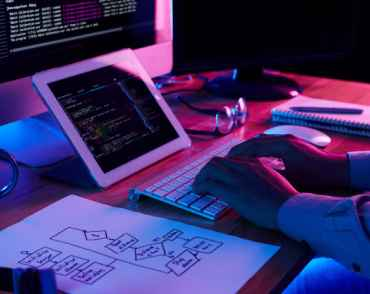
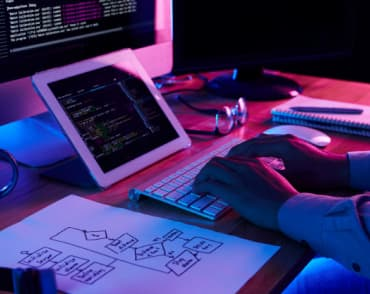
Правки
-оновлено якість картинок;
-виправлено назви в атрибутах alt до мови документу;
-додано атрибути lang для професій працівників;
-відредаговано prettier.

diff --git a/index.html b/index.html
@@ -1,123 +1,111 @@
 <!DOCTYPE html>
 <html lang="ru">
-<head>
-    <meta charset="UTF-8">
-    <meta http-equiv="X-UA-Compatible" content="IE=edge">
-    <meta name="viewport" content="width=device-width, initial-scale=1.0">
-    <title>Document</title>
-</head>
-<body>
-    <!--  Шапка сторінки  -->
-    <header>
-        <nav>
-            <a href="./index.html">
-                WebStudio 
-            </a>
+	<head>
+		<meta charset="UTF-8" />
+		<meta http-equiv="X-UA-Compatible" content="IE=edge" />
+		<meta name="viewport" content="width=device-width, initial-scale=1.0" />
+		<title>Document</title>
+	</head>
+	<body>
+		<!--  Шапка сторінки  -->
+		<header>
+			<nav>
+				<a href="./index.html">WebStudio</a>
 
-            <ul>
-                <li><a href="">Студия</a></li>
-                <li><a href="">Портфолио</a></li>
-                <li><a href="">Контакты</a></li>
-            </ul>
-        </nav>
-        
-        <ul>
-            <li><a href="mailto:info@devstudio.com">info@devstudio.com</a></li>
-            <li><a href="tel:+380961111111">+38 096 111 11 11</a></li>
-        </ul>
-    </header>
+				<ul>
+					<li><a href="">Студия</a></li>
+					<li><a href="">Портфолио</a></li>
+					<li><a href="">Контакты</a></li>
+				</ul>
+			</nav>
 
-    <!--  Унікальний контент сторінки  -->
-    <main>
-        <article>
-            <h1>Эффективные решения для вашего бизнеса</h1>
-            <button type="button">Заказать услугу</button>
-        </article>
+			<ul>
+				<li><a href="mailto:info@devstudio.com">info@devstudio.com</a></li>
+				<li><a href="tel:+380961111111">+38 096 111 11 11</a></li>
+			</ul>
+		</header>
 
-        <section>
-            <h2>Наши особенности</h2>
+		<!--  Унікальний контент сторінки  -->
+		<main>
+			<section>
+				<h1>Эффективные решения для вашего бизнеса</h1>
 
-            <ul>
-                <li>
-                    <h3>Внимание к деталям</h3>
-                    <p>Идейные соображения, а также начало повседневной работы по формированию позиции.</p>
-                </li>
-                <li>
-                    <h3>Пунктуальность</h3>
-                    <p>Задача организации, в особенности же рамки и место обучения кадров влечет за собой.</p>
-                </li>
-                <li>
-                    <h3>Планирование</h3>
-                    <p>Равным образом консультация с широким активом в значительной степени обуславливает.</p>
-                </li>
-                <li>
-                    <h3>Современные технологии</h3>
-                    <p>Значимость этих проблем настолько очевидна, что реализация плановых заданий.</p>
-                </li>
-            </ul>
-        </section>
+				<button type="button">Заказать услугу</button>
+			</section>
 
-        <section>
-            <h2>Чем мы занимаемся</h2>
+			<section>
+				<h2>Наши особенности</h2>
 
-            <ul>
-                <li><img src="./images/job-1.jpg" alt="Верстка сайта" width="370"></li>
-                <li><img src="./images/job-2.jpg" alt="Адаптация сайта под все экраны" width="370"></li>
-                <li><img src="./images/job-3.jpg" alt="Дизайн сайта" width="370"></li>
-            </ul>
-        </section>
+				<ul>
+					<li>
+						<h3>Внимание к деталям</h3>
+						<p>Идейные соображения, а также начало повседневной работы по формированию позиции.</p>
+					</li>
+					<li>
+						<h3>Пунктуальность</h3>
+						<p>Задача организации, в особенности же рамки и место обучения кадров влечет за собой.</p>
+					</li>
+					<li>
+						<h3>Планирование</h3>
+						<p>Равным образом консультация с широким активом в значительной степени обуславливает.</p>
+					</li>
+					<li>
+						<h3>Современные технологии</h3>
+						<p>Значимость этих проблем настолько очевидна, что реализация плановых заданий.</p>
+					</li>
+				</ul>
+			</section>
 
-        <section>
-            <h2>Наша команда</h2>
+			<section>
+				<h2>Чем мы занимаемся</h2>
 
-            <ul>
-                <li>
-                    <img src="./images/pd.jpg" alt="Product Designer"
-                    width="270">
-                    <h3>Игорь Демьяненко</h3>
-                    <p>Product Designer</p>
-                </li>
-                <li>
-                    <img src="./images/fd.jpg" alt="Frontend Developer"
-                    width="270">
-                    <h3>Ольга Репина</h3>
-                    <p>Frontend Developer</p>
-                </li>
-                <li>
-                    <img src="./images/m.jpg" alt="Marketing"
-                    width="270">
-                    <h3>Николай Тарасов</h3>
-                    <p>Marketing</p>
-                </li>
-                <li>
-                    <img src="images/uid.jpg" alt="UI Designer"
-                    width="270">
-                    <h3>Михаил Ермаков</h3>
-                    <p>UI Designer</p>
-                </li>
-            </ul>
-        </section>
+				<ul>
+					<li><img src="./images/job-1.jpg" alt="Верстка сайта" width="370" /></li>
+					<li><img src="./images/job-2.jpg" alt="Адаптация сайта под все экраны" width="370" /></li>
+					<li><img src="./images/job-3.jpg" alt="Дизайн сайта" width="370" /></li>
+				</ul>
+			</section>
 
-    </main>
+			<section>
+				<h2>Наша команда</h2>
 
-    <!--  Підвал  -->
-    <footer>
-        <a href="./index.html">
-            WebStudio
-        </a>
+				<ul>
+					<li>
+						<img src="./images/pd.jpg" alt="продакт дизайнер" width="270" />
+						<h3>Игорь Демьяненко</h3>
+						<p lang="en">Product Designer</p>
+					</li>
+					<li>
+						<img src="./images/fd.jpg" alt="фронтенд-разработчик" width="270" />
+						<h3>Ольга Репина</h3>
+						<p lang="en">Frontend Developer</p>
+					</li>
+					<li>
+						<img src="./images/m.jpg" alt="маркетолог" width="270" />
+						<h3>Николай Тарасов</h3>
+						<p lang="en">Marketing</p>
+					</li>
+					<li>
+						<img src="images/uid.jpg" alt="дизайнер пользовательского интерфейса" width="270" />
+						<h3>Михаил Ермаков</h3>
+						<p lang="en">UI Designer</p>
+					</li>
+				</ul>
+			</section>
+		</main>
 
-        <address>
-            г. Киев, пр-т Леси Украинки, 26
-        </address>
+		<!--  Підвал  -->
+		<footer>
+			<a href="./index.html">WebStudio</a>
 
-        <address>
-            <ul>
-                <li><a href="mailto:info@example.com">info@example.com</a></li>
-                <li><a href="tel:+380991111111">+38 099 111 11 11</a></li>
-            </ul>
-        </address>
+			<address>г. Киев, пр-т Леси Украинки, 26</address>
 
-    </footer>
-    
-</body>
+			<address>
+				<ul>
+					<li><a href="mailto:info@example.com">info@example.com</a></li>
+					<li><a href="tel:+380991111111">+38 099 111 11 11</a></li>
+				</ul>
+			</address>
+		</footer>
+	</body>
 </html>
